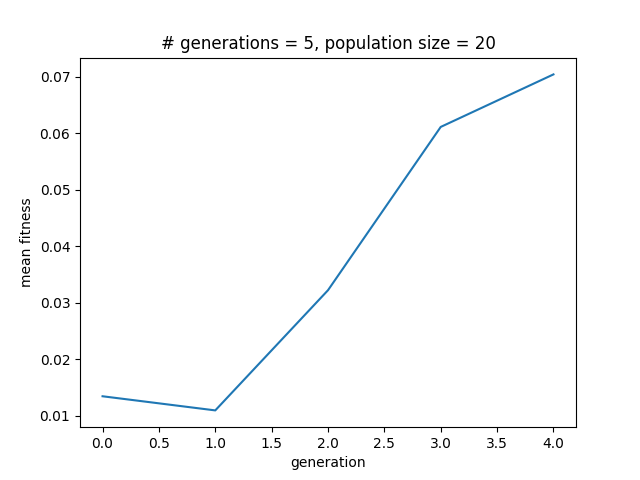
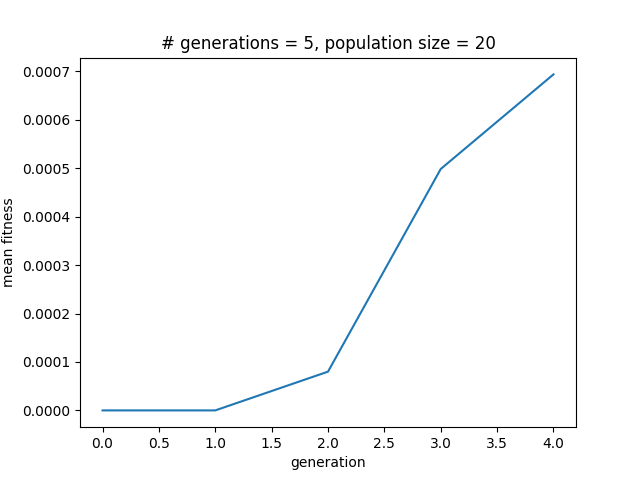
Change experiment to use Genotype Protocol

diff --git a/examples/ca_experiments/experiment.py b/examples/ca_experiments/experiment.py
@@ -1,14 +1,18 @@
 """
 CA representation testing, generates robot with simple survivor selection (top k% of fittest) with
-fixed starting gene length (dict of CA rules) and mutation that replaces one random chosen rule with a randomly 
-generated rule 
+fixed starting gene length (dict of CA rules) and mutation that replaces one random chosen rule with a randomly
+generated rule
 """
 
 import logging
+from typing import List, Tuple
 import numpy as np
 import asyncio
 import json
 import matplotlib.pyplot as plt
+from pathlib import Path
+
+from numpy.typing import NDArray
 
 import config
 import revolve2.ci_group.rng
@@ -16,72 +20,55 @@ from revolve2.ci_group.logging import setup_logging
 from revolve2.ci_group import terrains, fitness_functions
 from revolve2.ci_group.rng import make_rng
 from revolve2.ci_group.simulation import create_batch_single_robot_standard
-from revolve2.modular_robot import ActiveHinge, Body, Brick, ModularRobot, RightAngles
+from revolve2.modular_robot import (
+    ActiveHinge,
+    Body,
+    Brick,
+    ModularRobot,
+    RightAngles,
+    ModularRobot,
+    get_body_states_single_robot,
+)
 from revolve2.modular_robot.brains import BrainCpgNetworkNeighborRandom
-from revolve2.modular_robot import ModularRobot, get_body_states_single_robot
+from revolve2.modular_robot.representations import render_robot
 from revolve2.simulators.mujoco import LocalRunner
 
-from revolve2.experimentation.genotypes.cellular_automata.ca_genotype import CAGenotype
-from revolve2.experimentation.genotypes.cellular_automata.develop import develop
+from revolve2.experimentation.genotypes.cellular_automata import (
+    CAGenotype,
+    CAInitParameters,
+)
 
 
-def initialize():
-    population = []
+def initialize() -> List[CAGenotype]:
+    rng = revolve2.ci_group.rng.make_rng_time_seed()
+    # If you run with a set seed, use the following lines instead.
+    # SEED = 1234
+    # rng = revolve2.ci_group.rng.make_rng(SEED)
 
-    for i in range(config.NUM_INDIVIDUALS):
-        rng = revolve2.ci_group.rng.make_rng_time_seed()
-
-        # If you run with a set seed, use the following lines instead.
-        # SEED = 1234
-        # rng = revolve2.ci_group.rng.make_rng(SEED)
-
-        dsize = 10
-        domain = np.zeros((dsize, dsize))
-        domain[dsize // 2, dsize // 2] = 1
-
-        g = CAGenotype()
-        g.set_params(init_state=domain, iterations=6, rule_set={})
-        g.generate_random_genotype(10)
-        g.generate_body()
-        g.set_core(dsize // 2, dsize // 2)
-
-        body = develop(g)
-
-        population.append(g.rule_set)
-
-    return population, domain
+    params = CAInitParameters(domain_size=10, iterations=6, nr_rules=10)
+    return CAGenotype.random_individuals(params, config.NUM_INDIVIDUALS, rng)
 
 
-def run_experiment(previous_population, init_domain):
+def run_experiment(previous_population: List[CAGenotype], itteration: int):
     """
     Run all runs of an experiment using the provided parameters.
 
     """
     # Create a list where we will store the success ratio for each repetition.
-
     generation_fitness = []
     current_population = []
 
-    for i in range(len(previous_population)):
+    for itter, individual in enumerate(previous_population):
         rng = revolve2.ci_group.rng.make_rng_time_seed()
 
-        g = CAGenotype()
-
-        g.rule_set = previous_population[i]
-        g.init_state = init_domain.copy()
-        g.mutate()
-        g.generate_body()
-        dsize = len(g.ca_grid)
-        g.set_core(dsize // 2, dsize // 2)
-
-        print(g.ca_grid)
-
-        body = develop(g)
+        g = individual.mutate()
+        body = g.develop()
 
         # We choose a 'CPG' brain with random parameters (the exact working will not be explained here).
         brain = BrainCpgNetworkNeighborRandom(rng)
         # Combine the body and brain into a modular robot.
         robot = ModularRobot(body, brain)
+        # render_robot(robot, Path() / f"{itteration}_{itter}_robot.png")
 
         batch = create_batch_single_robot_standard(robot=robot, terrain=terrains.flat())
 
@@ -104,21 +91,21 @@ def run_experiment(previous_population, init_domain):
         generation_fitness.append(xy_displacement)
         logging.info(f"xy_displacement = {xy_displacement}")
 
-        current_population.append(g.rule_set)
+        current_population.append(g)
 
     return generation_fitness, current_population
 
 
 def survivor_selection(generation_fitness, population, percent_survivors):
     # Create a list of (fitness, individual_id) tuples and sort it in descending order
-    fitness_with_id = [(fitness, id) for id, fitness in enumerate(generation_fitness)]
+    fitness_with_id = [(fitness, i) for i, fitness in enumerate(generation_fitness)]
     fitness_with_id.sort(reverse=True)
 
     num_individuals = len(generation_fitness)
     num_survivors = int((percent_survivors / 100) * num_individuals)
 
     # Select the top N individuals
-    top_individuals = [population[id] for _, id in fitness_with_id[:num_survivors]]
+    top_individuals = [population[i] for _, i in fitness_with_id[:num_survivors]]
 
     # Determine the number of additional individuals needed to fill the gap
     gap_size = len(population) - len(top_individuals)
@@ -130,14 +117,13 @@ def survivor_selection(generation_fitness, population, percent_survivors):
     return top_individuals
 
 
-
-def save_population_to_file(population, file_path):
-    with open(file_path, 'w') as file:
-        for individual in population:
-            converted_individual = {str(k): v for k, v in individual.items()}
-            json.dump(converted_individual, file)
-            file.write('\n')
-
+def save_population_to_file(population: List[CAGenotype], file_path: str):
+    population_data = [
+        {str(k): v for k, v in individual._ca_type.rule_set.items()}
+        for individual in population
+    ]
+    with open(file_path, "w") as f:
+        json.dump(population_data, f)
 
 
 def main() -> None:
@@ -150,39 +136,30 @@ def main() -> None:
     # We also provide a file name, so the log will be written to both the console and that file.
     setup_logging(file_name="log.txt")
 
-    # Let's print a simple message.
-    # We use the 'info' function to give the message the 'INFO' severity.
-    logging.info("Starting program.")
-    # The following message will be invisible.
-    logging.debug(
-        "This debug message is invisible, because we set our visible severity to 'INFO' and higher."
-    )
-
     fitness_data = []
-    population, init_domain = initialize()
-    for repetition in range(config.NUM_GENERATIONS):
-        generation_fitness, population_next = run_experiment(population, init_domain)
+    population = initialize()
+
+    for i in range(config.NUM_GENERATIONS):
+        generation_fitness, population_next = run_experiment(population, i)
         fitness_data.append([generation_fitness])
         population = survivor_selection(
             generation_fitness.copy(), population_next.copy(), 70
         )
 
     plt.figure()
-    plt.title(f'# generations = {config.NUM_GENERATIONS}, population size = {config.NUM_INDIVIDUALS}')
-    plt.xlabel('generation')
-    plt.ylabel('mean fitness')
-    fitness_means = []
-    x = [i for i in range(len(fitness_data))]
-    for i in range(len(fitness_data)):
-        fitness_means.append(np.mean(fitness_data[i]))
+    plt.title(
+        f"# generations = {config.NUM_GENERATIONS}, population size = {config.NUM_INDIVIDUALS}"
+    )
+    plt.xlabel("generation")
+    plt.ylabel("mean fitness")
 
-    plt.plot(x, fitness_means)
-    plt.savefig(f'examples/ca_experiments/fitness_dynamics_CA_g{config.NUM_GENERATIONS}_p{config.NUM_INDIVIDUALS}')
+    plt.plot(list(range(len(fitness_data))), [np.mean(x) for x in fitness_data])
+    plt.savefig(
+        f"examples/ca_experiments/fitness_dynamics_CA_g{config.NUM_GENERATIONS}_p{config.NUM_INDIVIDUALS}"
+    )
 
-    file_path = 'examples/ca_experiments/last_population.json'
+    file_path = "examples/ca_experiments/last_population.json"
     save_population_to_file(population, file_path)
-
-
 
 
 if __name__ == "__main__":
